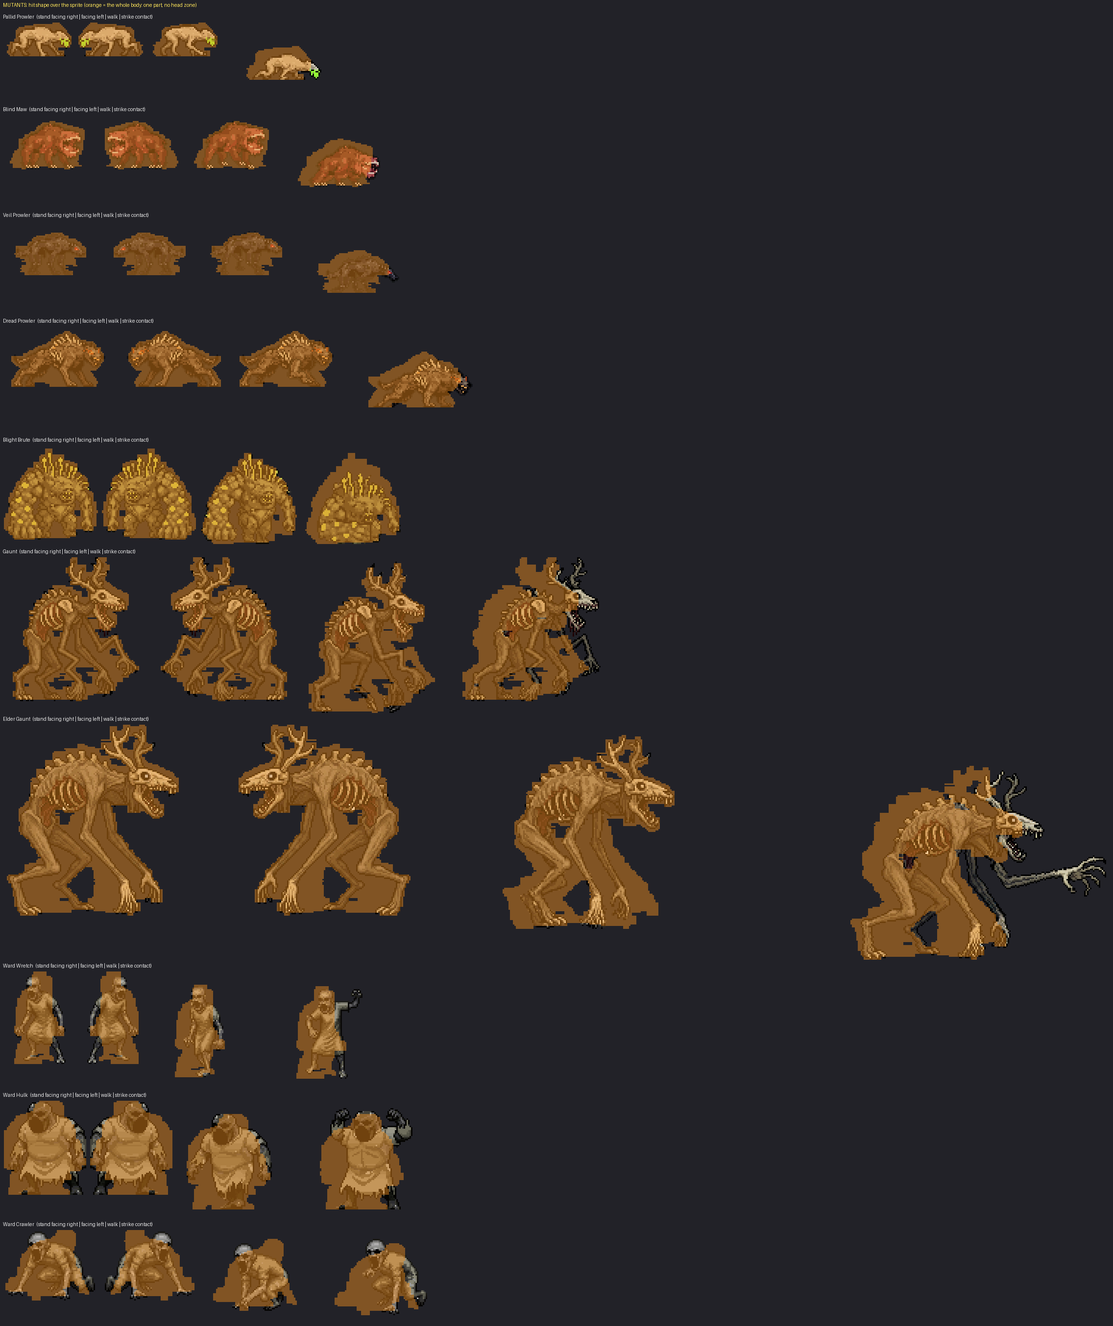
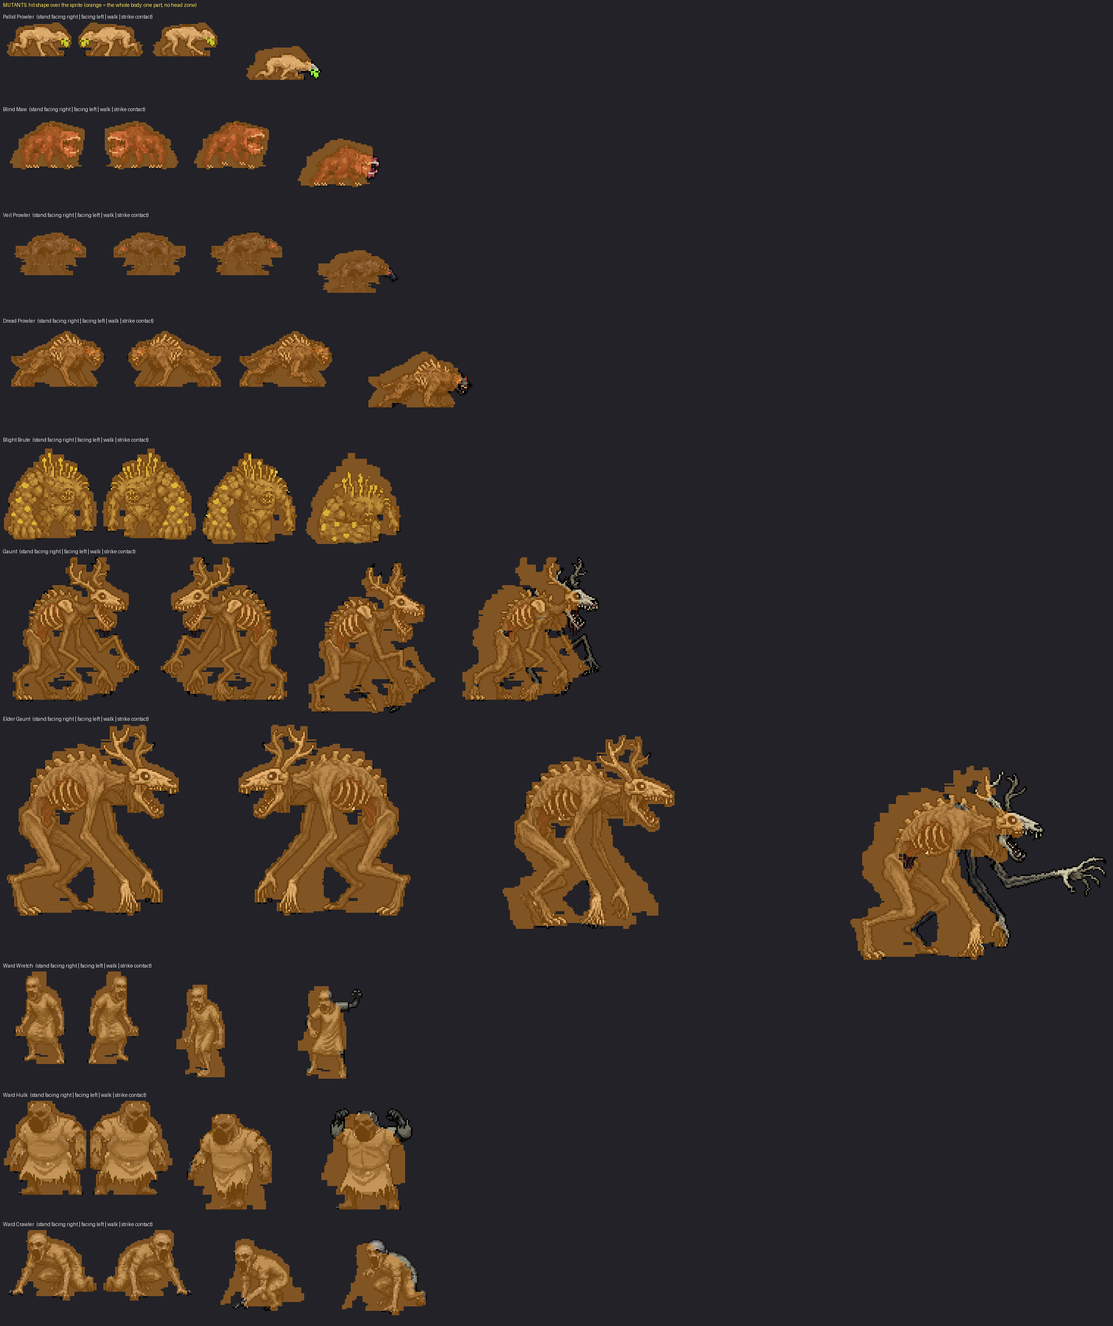
Ward outlines were mirrored: fixed; hitbox sheets re-rendered
Claude-Session: https://claude.ai/code/session_01Jpd5tdDJTR7BVueAYV1KDM

diff --git a/Assets/Scripts/GameData/HitProfiles.cs b/Assets/Scripts/GameData/HitProfiles.cs
@@ -545,189 +545,189 @@ namespace GameData
             },
             ["Ward Wretch"] = new float[][]
             {
-                new[] { -0.531f, 0.062f },
-                new[] { -0.531f, 0.062f },
-                new[] { -0.531f, 0.062f, 0.219f, 0.312f },
-                new[] { -0.531f, 0.312f },
-                new[] { -0.500f, 0.312f },
-                new[] { -0.500f, -0.188f, 0.031f, 0.250f },
-                new[] { -0.500f, -0.062f, 0.094f, 0.188f },
-                new[] { -0.500f, 0.188f },
-                new[] { -0.469f, 0.188f },
-                new[] { -0.469f, 0.188f },
-                new[] { -0.438f, 0.188f },
-                new[] { -0.438f, 0.188f },
-                new[] { -0.438f, 0.219f },
-                new[] { -0.438f, 0.219f },
-                new[] { -0.406f, 0.250f },
-                new[] { -0.406f, 0.250f },
-                new[] { -0.375f, 0.250f },
-                new[] { -0.375f, 0.281f },
-                new[] { -0.344f, 0.281f },
-                new[] { -0.438f, 0.500f },
+                new[] { -0.062f, 0.531f },
+                new[] { -0.062f, 0.531f },
+                new[] { -0.312f, -0.219f, -0.062f, 0.531f },
+                new[] { -0.312f, 0.531f },
+                new[] { -0.312f, 0.500f },
+                new[] { -0.250f, -0.031f, 0.188f, 0.500f },
+                new[] { -0.188f, -0.094f, 0.062f, 0.500f },
+                new[] { -0.188f, 0.500f },
+                new[] { -0.188f, 0.469f },
+                new[] { -0.188f, 0.469f },
+                new[] { -0.188f, 0.438f },
+                new[] { -0.188f, 0.438f },
+                new[] { -0.219f, 0.438f },
+                new[] { -0.219f, 0.438f },
+                new[] { -0.250f, 0.406f },
+                new[] { -0.250f, 0.406f },
+                new[] { -0.250f, 0.375f },
+                new[] { -0.281f, 0.375f },
+                new[] { -0.281f, 0.344f },
+                new[] { -0.500f, 0.438f },
                 new[] { -0.500f, 0.500f },
-                new[] { -0.531f, 0.500f },
-                new[] { -0.531f, 0.500f },
-                new[] { -0.531f, 0.500f },
-                new[] { -0.531f, 0.500f },
-                new[] { -0.531f, 0.469f },
-                new[] { -0.500f, 0.406f },
-                new[] { -0.500f, 0.375f },
-                new[] { -0.500f, 0.375f },
-                new[] { -0.500f, 0.344f },
-                new[] { -0.500f, 0.344f },
-                new[] { -0.500f, 0.344f },
-                new[] { -0.500f, 0.312f },
-                new[] { -0.500f, 0.312f },
-                new[] { -0.500f, 0.281f },
-                new[] { -0.500f, 0.281f },
-                new[] { -0.469f, 0.281f },
-                new[] { -0.469f, 0.281f },
-                new[] { -0.469f, 0.281f },
-                new[] { -0.438f, 0.281f },
-                new[] { -0.438f, 0.281f },
-                new[] { -0.438f, 0.281f },
-                new[] { -0.438f, 0.281f },
-                new[] { -0.438f, 0.281f },
-                new[] { -0.438f, 0.250f },
-                new[] { -0.406f, 0.250f },
-                new[] { -0.406f, 0.250f },
-                new[] { -0.375f, 0.250f },
-                new[] { -0.344f, 0.250f },
-                new[] { -0.344f, 0.281f },
-                new[] { -0.312f, 0.281f },
-                new[] { -0.219f, 0.281f },
-                new[] { -0.188f, 0.281f },
-                new[] { -0.156f, 0.281f },
-                new[] { -0.156f, 0.281f },
-                new[] { -0.156f, 0.281f },
-                new[] { -0.156f, 0.281f },
-                new[] { -0.156f, 0.281f },
-                new[] { -0.156f, 0.250f },
-                new[] { -0.156f, 0.219f },
+                new[] { -0.500f, 0.531f },
+                new[] { -0.500f, 0.531f },
+                new[] { -0.500f, 0.531f },
+                new[] { -0.500f, 0.531f },
+                new[] { -0.469f, 0.531f },
+                new[] { -0.406f, 0.500f },
+                new[] { -0.375f, 0.500f },
+                new[] { -0.375f, 0.500f },
+                new[] { -0.344f, 0.500f },
+                new[] { -0.344f, 0.500f },
+                new[] { -0.344f, 0.500f },
+                new[] { -0.312f, 0.500f },
+                new[] { -0.312f, 0.500f },
+                new[] { -0.281f, 0.500f },
+                new[] { -0.281f, 0.500f },
+                new[] { -0.281f, 0.469f },
+                new[] { -0.281f, 0.469f },
+                new[] { -0.281f, 0.469f },
+                new[] { -0.281f, 0.438f },
+                new[] { -0.281f, 0.438f },
+                new[] { -0.281f, 0.438f },
+                new[] { -0.281f, 0.438f },
+                new[] { -0.281f, 0.438f },
+                new[] { -0.250f, 0.438f },
+                new[] { -0.250f, 0.406f },
+                new[] { -0.250f, 0.406f },
+                new[] { -0.250f, 0.375f },
+                new[] { -0.250f, 0.344f },
+                new[] { -0.281f, 0.344f },
+                new[] { -0.281f, 0.312f },
+                new[] { -0.281f, 0.219f },
+                new[] { -0.281f, 0.188f },
+                new[] { -0.281f, 0.156f },
+                new[] { -0.281f, 0.156f },
+                new[] { -0.281f, 0.156f },
+                new[] { -0.281f, 0.156f },
+                new[] { -0.281f, 0.156f },
+                new[] { -0.250f, 0.156f },
+                new[] { -0.219f, 0.156f },
                 new[] { -0.156f, 0.156f },
-                new[] { -0.125f, 0.156f },
-                new[] { -0.125f, 0.156f },
+                new[] { -0.156f, 0.125f },
+                new[] { -0.156f, 0.125f },
             },
             ["Ward Hulk"] = new float[][]
             {
-                new[] { -0.781f, -0.531f, -0.344f, 0.500f },
-                new[] { -0.781f, -0.531f, -0.344f, 0.500f },
-                new[] { -0.781f, -0.500f, -0.344f, 0.500f },
-                new[] { -0.781f, 0.469f },
-                new[] { -0.781f, 0.406f },
-                new[] { -0.750f, 0.344f },
-                new[] { -0.719f, 0.344f },
-                new[] { -0.719f, 0.344f },
-                new[] { -0.719f, 0.375f },
-                new[] { -0.719f, 0.375f },
-                new[] { -0.719f, 0.562f },
-                new[] { -0.719f, 0.562f },
-                new[] { -0.719f, 0.562f },
-                new[] { -0.719f, 0.562f },
-                new[] { -0.688f, 0.531f },
-                new[] { -0.688f, 0.531f },
-                new[] { -0.656f, 0.719f },
-                new[] { -0.812f, 0.750f },
-                new[] { -0.875f, 0.750f },
-                new[] { -0.875f, 0.750f },
-                new[] { -0.875f, 0.844f },
-                new[] { -0.875f, 0.844f },
-                new[] { -0.875f, 0.844f },
-                new[] { -0.906f, 0.844f },
-                new[] { -0.906f, 0.844f },
-                new[] { -0.906f, 0.812f },
-                new[] { -0.875f, 0.812f },
-                new[] { -0.875f, 0.812f },
-                new[] { -0.906f, 0.812f },
-                new[] { -0.906f, 0.812f },
-                new[] { -0.906f, 0.781f },
-                new[] { -0.906f, 0.781f },
-                new[] { -0.906f, 0.750f },
-                new[] { -0.875f, 0.750f },
-                new[] { -0.875f, 0.750f },
-                new[] { -0.875f, 0.719f },
-                new[] { -0.875f, 0.719f },
-                new[] { -0.875f, 0.688f },
-                new[] { -0.875f, 0.656f },
-                new[] { -0.875f, 0.625f },
-                new[] { -0.844f, 0.625f },
-                new[] { -0.844f, 0.625f },
-                new[] { -0.844f, 0.625f },
-                new[] { -0.844f, 0.625f },
-                new[] { -0.812f, 0.625f },
-                new[] { -0.812f, 0.594f },
-                new[] { -0.781f, 0.594f },
-                new[] { -0.750f, 0.594f },
-                new[] { -0.719f, 0.562f },
-                new[] { -0.688f, 0.562f },
-                new[] { -0.656f, 0.531f },
-                new[] { -0.656f, 0.469f },
-                new[] { -0.625f, 0.438f },
-                new[] { -0.594f, 0.406f },
-                new[] { -0.531f, 0.375f },
-                new[] { -0.406f, 0.375f },
-                new[] { -0.312f, 0.375f },
-                new[] { -0.250f, 0.375f },
-                new[] { -0.219f, 0.375f },
-                new[] { -0.188f, 0.375f },
-                new[] { -0.188f, 0.375f },
-                new[] { -0.188f, 0.344f },
-                new[] { -0.156f, 0.344f },
-                new[] { -0.125f, 0.312f },
-                new[] { -0.094f, 0.281f },
+                new[] { -0.500f, 0.344f, 0.531f, 0.781f },
+                new[] { -0.500f, 0.344f, 0.531f, 0.781f },
+                new[] { -0.500f, 0.344f, 0.500f, 0.781f },
+                new[] { -0.469f, 0.781f },
+                new[] { -0.406f, 0.781f },
+                new[] { -0.344f, 0.750f },
+                new[] { -0.344f, 0.719f },
+                new[] { -0.344f, 0.719f },
+                new[] { -0.375f, 0.719f },
+                new[] { -0.375f, 0.719f },
+                new[] { -0.562f, 0.719f },
+                new[] { -0.562f, 0.719f },
+                new[] { -0.562f, 0.719f },
+                new[] { -0.562f, 0.719f },
+                new[] { -0.531f, 0.688f },
+                new[] { -0.531f, 0.688f },
+                new[] { -0.719f, 0.656f },
+                new[] { -0.750f, 0.812f },
+                new[] { -0.750f, 0.875f },
+                new[] { -0.750f, 0.875f },
+                new[] { -0.844f, 0.875f },
+                new[] { -0.844f, 0.875f },
+                new[] { -0.844f, 0.875f },
+                new[] { -0.844f, 0.906f },
+                new[] { -0.844f, 0.906f },
+                new[] { -0.812f, 0.906f },
+                new[] { -0.812f, 0.875f },
+                new[] { -0.812f, 0.875f },
+                new[] { -0.812f, 0.906f },
+                new[] { -0.812f, 0.906f },
+                new[] { -0.781f, 0.906f },
+                new[] { -0.781f, 0.906f },
+                new[] { -0.750f, 0.906f },
+                new[] { -0.750f, 0.875f },
+                new[] { -0.750f, 0.875f },
+                new[] { -0.719f, 0.875f },
+                new[] { -0.719f, 0.875f },
+                new[] { -0.688f, 0.875f },
+                new[] { -0.656f, 0.875f },
+                new[] { -0.625f, 0.875f },
+                new[] { -0.625f, 0.844f },
+                new[] { -0.625f, 0.844f },
+                new[] { -0.625f, 0.844f },
+                new[] { -0.625f, 0.844f },
+                new[] { -0.625f, 0.812f },
+                new[] { -0.594f, 0.812f },
+                new[] { -0.594f, 0.781f },
+                new[] { -0.594f, 0.750f },
+                new[] { -0.562f, 0.719f },
+                new[] { -0.562f, 0.688f },
+                new[] { -0.531f, 0.656f },
+                new[] { -0.469f, 0.656f },
+                new[] { -0.438f, 0.625f },
+                new[] { -0.406f, 0.594f },
+                new[] { -0.375f, 0.531f },
+                new[] { -0.375f, 0.406f },
+                new[] { -0.375f, 0.312f },
+                new[] { -0.375f, 0.250f },
+                new[] { -0.375f, 0.219f },
+                new[] { -0.375f, 0.188f },
+                new[] { -0.375f, 0.188f },
+                new[] { -0.344f, 0.188f },
+                new[] { -0.344f, 0.156f },
+                new[] { -0.312f, 0.125f },
+                new[] { -0.281f, 0.094f },
             },
             ["Ward Crawler"] = new float[][]
             {
-                new[] { -0.406f, -0.250f },
-                new[] { -0.406f, -0.250f },
-                new[] { -0.406f, -0.250f },
-                new[] { -0.469f, 0.312f },
-                new[] { -0.469f, 0.312f, 0.719f, 0.812f },
-                new[] { -0.469f, 0.312f, 0.594f, 0.812f },
-                new[] { -0.906f, 0.281f, 0.594f, 0.812f },
-                new[] { -0.938f, 0.219f, 0.594f, 0.781f },
-                new[] { -0.938f, 0.312f, 0.594f, 0.750f },
-                new[] { -0.938f, 0.375f, 0.594f, 0.719f },
-                new[] { -0.938f, 0.375f, 0.562f, 0.719f },
-                new[] { -0.938f, 0.375f, 0.531f, 0.688f },
-                new[] { -0.906f, 0.375f, 0.531f, 0.688f },
-                new[] { -0.906f, 0.688f },
-                new[] { -0.906f, 0.656f },
-                new[] { -0.875f, 0.656f },
-                new[] { -0.719f, 0.625f },
-                new[] { -0.688f, 0.625f },
-                new[] { -0.688f, 0.625f },
-                new[] { -0.688f, 0.594f },
-                new[] { -0.688f, 0.594f },
-                new[] { -0.688f, 0.594f },
-                new[] { -0.688f, 0.562f },
-                new[] { -0.656f, 0.531f },
-                new[] { -0.656f, 0.531f },
-                new[] { -0.656f, 0.531f },
-                new[] { -0.656f, 0.531f },
-                new[] { -0.656f, 0.500f },
-                new[] { -0.656f, 0.500f },
-                new[] { -0.625f, 0.469f },
-                new[] { -0.625f, 0.469f },
-                new[] { -0.594f, 0.469f },
-                new[] { -0.562f, 0.438f },
-                new[] { -0.531f, 0.438f },
-                new[] { -0.500f, 0.469f },
+                new[] { 0.250f, 0.406f },
+                new[] { 0.250f, 0.406f },
+                new[] { 0.250f, 0.406f },
+                new[] { -0.312f, 0.469f },
+                new[] { -0.812f, -0.719f, -0.312f, 0.469f },
+                new[] { -0.812f, -0.594f, -0.312f, 0.469f },
+                new[] { -0.812f, -0.594f, -0.281f, 0.906f },
+                new[] { -0.781f, -0.594f, -0.219f, 0.938f },
+                new[] { -0.750f, -0.594f, -0.312f, 0.938f },
+                new[] { -0.719f, -0.594f, -0.375f, 0.938f },
+                new[] { -0.719f, -0.562f, -0.375f, 0.938f },
+                new[] { -0.688f, -0.531f, -0.375f, 0.938f },
+                new[] { -0.688f, -0.531f, -0.375f, 0.906f },
+                new[] { -0.688f, 0.906f },
+                new[] { -0.656f, 0.906f },
+                new[] { -0.656f, 0.875f },
+                new[] { -0.625f, 0.719f },
+                new[] { -0.625f, 0.688f },
+                new[] { -0.625f, 0.688f },
+                new[] { -0.594f, 0.688f },
+                new[] { -0.594f, 0.688f },
+                new[] { -0.594f, 0.688f },
+                new[] { -0.562f, 0.688f },
+                new[] { -0.531f, 0.656f },
+                new[] { -0.531f, 0.656f },
+                new[] { -0.531f, 0.656f },
+                new[] { -0.531f, 0.656f },
+                new[] { -0.500f, 0.656f },
+                new[] { -0.500f, 0.656f },
+                new[] { -0.469f, 0.625f },
+                new[] { -0.469f, 0.625f },
+                new[] { -0.469f, 0.594f },
+                new[] { -0.438f, 0.562f },
+                new[] { -0.438f, 0.531f },
+                new[] { -0.469f, 0.500f },
                 new[] { -0.469f, 0.469f },
-                new[] { -0.438f, 0.469f },
-                new[] { -0.406f, 0.500f },
-                new[] { -0.375f, 0.500f },
-                new[] { -0.312f, 0.500f },
-                new[] { -0.250f, 0.531f },
-                new[] { -0.125f, 0.500f },
-                new[] { 0.031f, 0.500f },
-                new[] { 0.062f, 0.500f },
-                new[] { 0.094f, 0.500f },
-                new[] { 0.094f, 0.500f },
-                new[] { 0.125f, 0.469f },
-                new[] { 0.125f, 0.438f },
-                new[] { 0.188f, 0.375f },
+                new[] { -0.469f, 0.438f },
+                new[] { -0.500f, 0.406f },
+                new[] { -0.500f, 0.375f },
+                new[] { -0.500f, 0.312f },
+                new[] { -0.531f, 0.250f },
+                new[] { -0.500f, 0.125f },
+                new[] { -0.500f, -0.031f },
+                new[] { -0.500f, -0.062f },
+                new[] { -0.500f, -0.094f },
+                new[] { -0.500f, -0.094f },
+                new[] { -0.469f, -0.125f },
+                new[] { -0.438f, -0.125f },
+                new[] { -0.375f, -0.188f },
             },
             ["Swarm"] = new float[][]
             {

diff --git a/ArtSource/make_hit_profiles.py b/ArtSource/make_hit_profiles.py
@@ -67,7 +67,7 @@ def union_profile(k, name, ppt):
         if os.path.exists(fn):
             st = np.array(Image.open(fn).convert('RGBA'))[..., 3] > 0
             if st.shape[1] % 8 == 0: cuts += [st[:, i * (st.shape[1] // 8):(i + 1) * (st.shape[1] // 8)] for i in range(8)]
-    make_runs(name, stand, [c for c in cuts if c.any()], ppt, mirror=name.startswith('Ward '))
+    make_runs(name, stand, [c for c in cuts if c.any()], ppt, mirror=False)   # the runs are as the picture is DRAWN (a Ward faces left); the game mirrors them with the marker's flipX, like the sprite
     for a in cuts:
         if not a.any(): continue
         l, r = profile_lr(a, ppt)

diff --git a/ArtSource/WORK_LOG.md b/ArtSource/WORK_LOG.md
@@ -6944,3 +6944,4 @@ Yan: "give me the concept for that boss we talked about after this". `ArtSource/
 - 9bs (2026-11-22) HITBOXES FOLLOW THE FACING, BOSS HITBOX BUG, THE WORM'S SIZE, DOWNED AT 1 HP, AUDIT SHEETS (Yan: 'make the hitboxes follow which way the mutant faces'; 'some bosses have their hitbox only in the middle ... I tested him [the Ferryman] and the giant worm'; 'the worm is too small, double its size'; 'some attacks down me without having me at 1 hp'; 'make an audit of all the mutant hitboxes in game and show them'). (1) FACING: `make_hit_profiles.py` keeps, per row, how far the silhouette reaches LEFT and RIGHT of the unit's centre and stores half-width plus the middle's offset (`HitProfiles.Centre`, `CentreOf`), for the facing-right picture (the Ward mutants, drawn facing left, are stored swapped). `UnitSprites.Flipped(m)` is the one answer to 'is it drawn mirrored' (toward you in a fight, toward where it walks, the Brute's throw toward its target) and the view now reads it; `Ballistics.HalfWidth` returns the offset, `Trace` shifts the line's side distance by it, `Rt.UnitUnder` (the crosshair) uses it, the F6 overlay draws the shifted bands (`Ballistics.BoxesC`). (2) BOSS HITBOX: `Rt.UnitUnder` (what is under the crosshair) looked up every HumanEnemy by the HUMAN silhouette (0.25 tile half-width): a creature boss (Ferryman, the Grinder, Orderly, Mother Hollow, Choir, Specimen v2) was 'under the crosshair' only in the middle of its sprite; with the aim assist gone nothing hid it. It now uses the boss's own silhouette (BossArt.HitKey). New check: 274 points along the edges of every creature boss's and mutant's silhouette, both facings, must be under the crosshair. (3) THE GRINDER (the giant worm) is drawn twice as big (BossArt.Scales 0.85 -> 1.7; its silhouette is regenerated: 9.4 tiles wide, 5.4 tall: check the Pit Floor arena fits it). (4) DOWNED: `Body.Hit` sent a PLAYER down (a downed, bleeding-out state) as soon as his head or torso pool ran dry, whatever his health (the screenshot: 142 HP, 'down 31 s'); a player now goes down only when his health reaches 1 (Player.TakeDamage). NPC humans still die by their torso/head pools (the weapon tuning rests on it). (5) AUDIT: `ArtSource/render_hitboxes.py` draws every mutant's shape over its stand picture facing right and left, a walk frame and a strike frame, and the creature bosses over their idle picture: maps/renders/hitboxes/mutants.png, small_mutants.png, bosses.png. Seen on them: shapes now cover every drawn part (claws, antlers, spines), but they are row envelopes (the widest reach of any frame at each height), so there is empty hitbox above low bodies and beside thin ones; the Elder Gaunt's (and the Gaunt's) long claw arm in its strike frame widens its shape to one side at mid height even when standing; the bosses' shapes are the idle picture's envelope only. The FERRYMAN'S TELEPORT I could not reproduce: new `bosspath` probe (a boss fights a standing or kiting player for 90 s, phase 2 included, every move done): no frame jump of his drawn position, his art is centred, only YOU jump (the Hands/Reel pulls and knockdowns). Needs which attack. Harness ALL CHECKS PASSED.
 - 9bt (2026-11-22) HEADS WHERE THE HEADS ARE, and THE FERRYMAN'S LUNGE (Yan, with four circled sprites: 'the hitboxes only consider the top of the mutants and monsters as the head, not the actual head from the sprite'; 'the Ferryman's lunge bite teleports him'). HEADS: a mutant's or boss's 'Head' was the top 30% of its silhouette, so a hound's head (the front, low) was body and its back was head. `make_hit_profiles.py` now carries a HEAD box per body (HEAD_FRAC for the mutants: a box in fractions of the stand sprite's opaque bounding box, read off the pictures; BOSS_HEAD: rows only, for the bosses: Mother Hollow 10-60%, Ferryman 30-78%, Grinder 55-100%, Orderly 12-42% (its drawn face is low on the body), Choir 70-100%, Specimen's brain 55-100%) -> `HitProfiles.Head`, `OnHead`, `InHeadRows`. `Ballistics.HalfWidth` names Head by those rows; `Rt.PlayerFire` uses the crosshair's side-to-side position too (a mutant: the crosshair inside the head box = a head shot, on the body at head height = a body shot, mirrored with the facing), the F6 overlay and the audit sheets (maps/renders/hitboxes/) show the box. NPC rounds still pick by height only (the rows). Two tests updated (the Orderly's face). NOT done: the head box follows the stand picture only (it moves in a strike or a pounce); the Gaunts' antlers are inside their head box; the Swarm/Weavers (16 px atlas) and the Specimen's eye are one body. LUNGE: the Ferryman's Bite (Lunge 3) set him on the target's tile AT the hit and Rt.Glide drew the 3 tiles in 0.12 s (a snap, 0.3 tile a frame in the probe): now a lunging boss sets off 0.34 s before the blow (`Boss.LungeLead`, `LungedFor`) and a boss's rush is drawn over 0.32 s (`Rt.RushTimeBoss`); the Verger's hooks (Drag) keep their own step. Probe: his fastest frame fell from 0.3 tile to under 0.16. Applies to every boss with a Lunge (the Visor's, the Reaper's Rush, Scrap King's charges...): say if any should be snappier. Harness ALL CHECKS PASSED.
 - 9bu (2026-11-22) ALL MUTANTS ARE ONE PART, NO HIT-PART FEEDBACK, AND HITBOXES THAT CIRCLE THE ENEMY (Yan: 'the headshot thing wont work for mutants, most of them have the other hitboxes blocking the head ... make the mutant hitboxes all torso, remove the hit feedback showing which part was hit, just keep the damage numbers; a quality pass on the hitboxes, some cover too much around the enemy; most of the hitbox is around the sprite not ON it; or make the hitboxes actually circle the enemies like the annexed image'). (1) ONE PART: every mutant and creature boss is hit as 'Body' (full damage; no head, arm or leg multipliers, no helmet logic); the head boxes of 9bt stay in HitProfiles.Head, unused; `Rt.PlayerFire`'s head nudging is gone. The Orderly's IV bag stays a weak point. FEEDBACK: for a mutant or creature boss (`Ballistics.OnePart`) the log says 'hits X for N' (no 'in the head') and the Testing Ground's damage numbers drop the part word and the head colour (Gunplay.Resolve, Melee.Strike). (2) OUTLINE HITBOXES: the shape is now the sprite's own outline: per pixel row the runs of opaque pixels (small gaps closed, hairs dropped), from the stand picture plus every pixel present in 3 of the 16 walk and run pictures; bosses from their idle picture (`make_hit_profiles.py`: HitProfiles.Runs / RunsAt; Wards mirrored, bosses mirror with BossArt.Flip, mutants with UnitSprites.Flipped). The crosshair test (`Rt.UnitUnder`) is 'inside a run', the round test (`Ballistics.OutlineHit`) projects each run across the round's line (a run's x-extent times dy, plus the body's depth, capped at 0.9 tile, times |dx|, plus the player's pad of 0.14), the F6 overlay draws a box per run. A bug found on the way: the first version had the side of the shift reversed, caught by a new test (rounds up the screen through the middle of every mutant's outline hit it, half a tile past its far edge miss it; 24 + 558 crosshair points). (3) Before the outline, the same pass tightened the old envelope (opening to drop hairs, 4th-96th percentile edges, attack frames no longer widen it): its 'empty hitbox' share fell from 40-60% to 20-45%. Not seen in Unity. Humans keep the old half-width shape. Harness ALL CHECKS PASSED.
+- 9bv (2026-11-22) Re-rendered the hitbox sheets for every mutant (Yan: 'show me the new hitboxes on the other mutants too') and found a bug in them: the Ward mutants' outlines were mirrored (the generator mirrored them for the old 'facing right' convention, but the game mirrors an outline with the marker's flipX, relative to the picture as DRAWN, and the Wards are drawn facing left). Fixed (`make_hit_profiles.py`: runs are as drawn, for everyone). Still seen on the sheets: the Gaunts' stand outline includes the gaps between their legs closed up, and in their strike frame the outline lags behind the arm (attack frames do not widen it).
